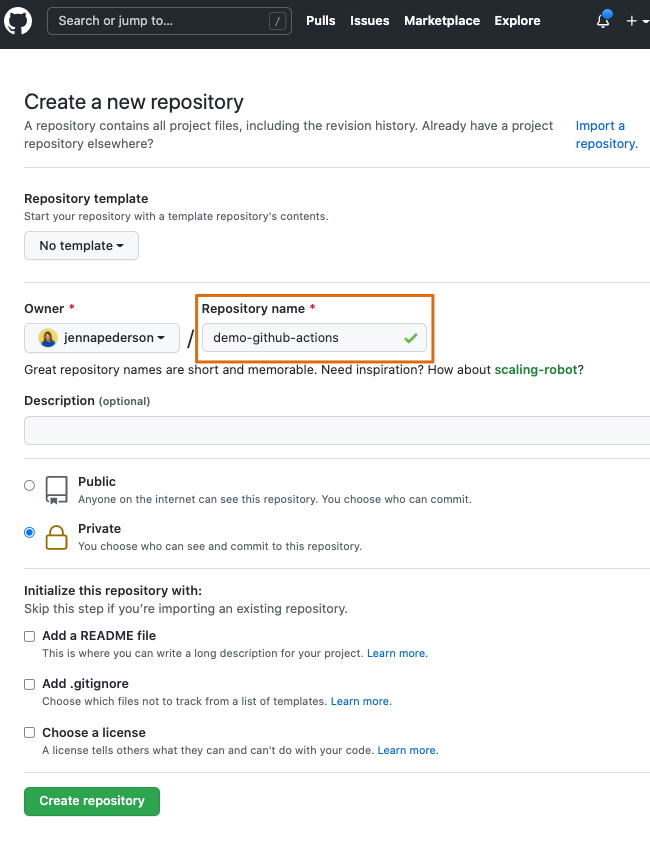
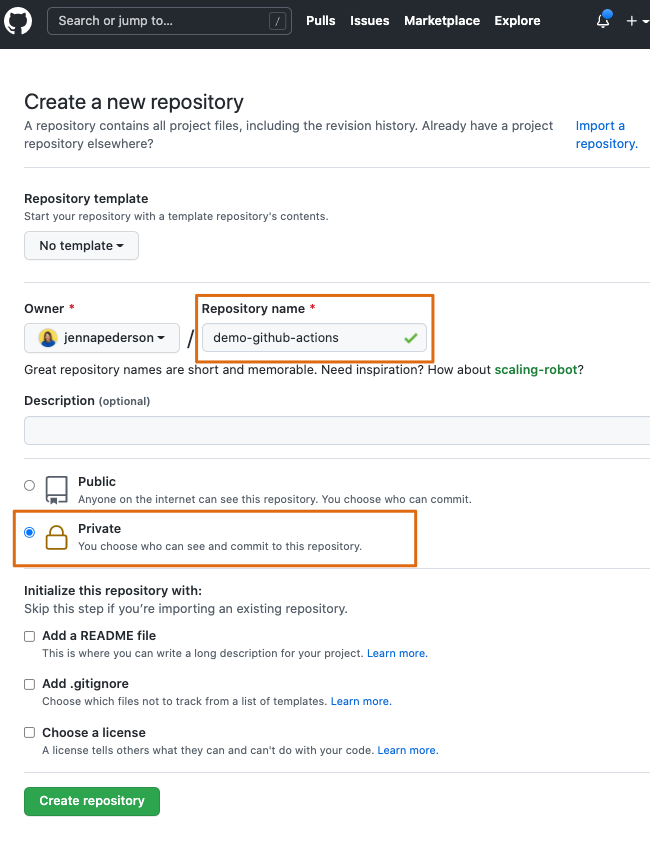
Update to be region agnostic; Explicitly use private git repository

Changed region(s): [[0.0, 0.5839, 0.6462, 0.6761]]

diff --git a/content/06_create_github_action/_index.md b/content/06_create_github_action/_index.md
@@ -42,7 +42,7 @@ Next, select "Attach existing policies directly" and select the "Create policy" 
 
 ![](/images/iam-create-policy.png)
 
-Navigate to the JSON tab and replace the policy with this one below. Replace the placeholder value (<YOUR_AWS_ACCOUNT_ID>) with your AWS Account ID. You can find your AWS Account ID in the [AWS Console](https://console.aws.amazon.com/), in the upper right drop-down menu under your login info. It is labeled "My Account".
+Navigate to the JSON tab and replace the policy with this one below. Replace the placeholder values (<YOUR_AWS_ACCOUNT_ID> and <YOUR_AWS_REGION>) with your AWS Account ID and the region you are using. You can find your AWS Account ID in the [AWS Console](https://console.aws.amazon.com/), in the upper right drop-down menu under your login info. It is labeled "My Account".
 
 ```
 {
@@ -66,7 +66,7 @@ Navigate to the JSON tab and replace the policy with this one below. Replace the
                 "ecr:PutImage",
                 "ecr:UploadLayerPart"
             ],
-            "Resource": "arn:aws:ecr:us-east-1:<YOUR_AWS_ACCOUNT_ID>:repository/ecs-devops-sandbox-repository"
+            "Resource": "arn:aws:ecr:<YOUR_AWS_REGION>:<YOUR_AWS_ACCOUNT_ID>:repository/ecs-devops-sandbox-repository"
         },
         {
             "Effect": "Allow",
@@ -75,8 +75,8 @@ Navigate to the JSON tab and replace the policy with this one below. Replace the
                 "ecs:UpdateService"
             ],
             "Resource": [
-                "arn:aws:ecs:us-east-1:<YOUR_AWS_ACCOUNT_ID>:service/default/ecs-devops-sandbox-service",
-                "arn:aws:ecs:us-east-1:<YOUR_AWS_ACCOUNT_ID>:service/ecs-devops-sandbox-cluster/ecs-devops-sandbox-service"
+                "arn:aws:ecs:<YOUR_AWS_REGION>:<YOUR_AWS_ACCOUNT_ID>:service/default/ecs-devops-sandbox-service",
+                "arn:aws:ecs:<YOUR_AWS_REGION>:<YOUR_AWS_ACCOUNT_ID>:service/ecs-devops-sandbox-cluster/ecs-devops-sandbox-service"
             ]
         },
         {

diff --git a/content/03_create_flask_app/_index.md b/content/03_create_flask_app/_index.md
@@ -189,7 +189,11 @@ git add . && git commit -m "Initial commit - basic Flask app"
 
 ## 9. Create GitHub repository
 
-Now we need to create a repository on GitHub and push our local changes to it. Go to https://github.com and select the "New" button to create a new repository. Enter `demo-github-actions` for the repository name and select the "Create repository" to create it.
+Now we need to create a repository on GitHub and push our local changes to it. Go to https://github.com and select the "New" button to create a new repository. Enter `demo-github-actions` for the repository name and set it to "Private". Select the "Create repository" button to create your new repository.
+
+{{% notice note %}}
+You can create a public repository, however since we are putting our AWS account ID in the `task-definition.json` file, a private repository will keep it more secure.
+{{% /notice %}}
 
 ![](/images/create-github-repo.png)
 
@@ -198,10 +202,10 @@ Now we need to create a repository on GitHub and push our local changes to it. G
 Go back to the terminal in your Cloud9 development environment and add the GitHub remote repository as origin:
 
 ```
-git remote add origin git@github.com:<YOUR GITHUB PROFILE>/demo-github-actions.git
+git remote add origin https://github.com/<YOUR GITHUB PROFILE>/demo-github-actions.git
 ```
 
-You can also find this command at the bottom of your brand new repository on GitHub.
+You can also find this command at the bottom of your brand new repository on GitHub. Just be sure to select HTTPS if you're using a personal token.
 
 Then push your local changes:
 

diff --git a/content/09_clean_up/_index.md b/content/09_clean_up/_index.md
@@ -32,7 +32,7 @@ Confirm with a `y` that you want to delete the EcsDevopsSandboxCdkStack.
 
 If you remember, our CDK code created the repository that we used to store container images. When we destroyed the CDK infrastructure in the last step, it skipped the ECR repository because it still contains data, or container images. This is a safeguard so that you don't accidentally delete your container images. This means we'll have to manually delete the container images and then delete the repository.
 
-Go back to the AWS Console and navigate to [ECR](https://console.aws.amazon.com/ecr/repositories?region=us-east-1).
+Go back to the AWS Console and navigate to [ECR](https://console.aws.amazon.com/ecr/repositories).
 
 Select the `ecs-devops-sandbox-repository` repository and then press the "Delete" button. Enter the confirmation text, noting that all of our container images will also be deleted. 
 

diff --git a/content/08_fix_broken_build/_index.md b/content/08_fix_broken_build/_index.md
@@ -56,7 +56,7 @@ If we revert our change and push the fix to GitHub again, we can then see that i
 
 ![](/images/github-build-fixed.png)
 
-Finally, we can see that the [ECS Task Definition](https://console.aws.amazon.com/ecs/home?region=us-east-1#/taskDefinitions/ecs-devops-sandbox-task-definition/status/ACTIVE) has been updated to reflect the new application container image. Note that the Git commit hash is used as the container image tag.
+Finally, we can see that the [ECS Task Definition](https://console.aws.amazon.com/ecs/home#/taskDefinitions/ecs-devops-sandbox-task-definition/status/ACTIVE) has been updated to reflect the new application container image. Note that the Git commit hash is used as the container image tag.
 
 ![](/images/ecs-task-definition-1.png)
 

diff --git a/content/07_check_build_results/_index.md b/content/07_check_build_results/_index.md
@@ -6,7 +6,7 @@ weight = 70
 
 # Check the build results
 
-When this code is pushed to the main branch of the repository, we can see that CodeBuild is automatically invoked via webhook and executes the application tests. Go to [CodeBuild](https://console.aws.amazon.com/codesuite/codebuild/projects?region=us-east-1) in the AWS Console to check it out. It looks like our first build is successful!
+When this code is pushed to the main branch of the repository, we can see that CodeBuild is automatically invoked via webhook and executes the application tests. Go to [CodeBuild](https://console.aws.amazon.com/codesuite/codebuild/projects) in the AWS Console to check it out. It looks like our first build is successful!
 
 ![](/images/code-build-build-success.png)
 

diff --git a/content/01_prerequisites/02_cloud9_env.md b/content/01_prerequisites/02_cloud9_env.md
@@ -10,7 +10,7 @@ Before starting the workshop, ensure that the region selected for the workshop s
 
 We'll use the AWS Cloud 9 service to setup your environment. Cloud9 comes pre-installed with AWS CLI packages, git, python, and many other useful utilities along with built-in IDE functionalities. Once logged in, you can use this Browser based IDE for coding and the bash shell to run terminal commands.
 
-1. In the AWS Console, navigate to the [Cloud9 service](https://console.aws.amazon.com/cloud9/home?region=us-east-1).
+1. In the AWS Console, navigate to the [Cloud9 service](https://console.aws.amazon.com/cloud9/home).
 
 ![](/images/nav-cloud9.png)
 

diff --git a/content/05_create_codebuild_project/_index.md b/content/05_create_codebuild_project/_index.md
@@ -14,7 +14,7 @@ The following steps will be completed in the AWS Console.
 
 ## 1. Configure Project
 
-Navigate to [AWS CodeBuild](https://console.aws.amazon.com/codesuite/codebuild/start?region=us-east-1) and select "Create project"
+Navigate to [AWS CodeBuild](https://console.aws.amazon.com/codesuite/codebuild/start) and select "Create project"
 
 ![](/images/code-build-create.png)
 
